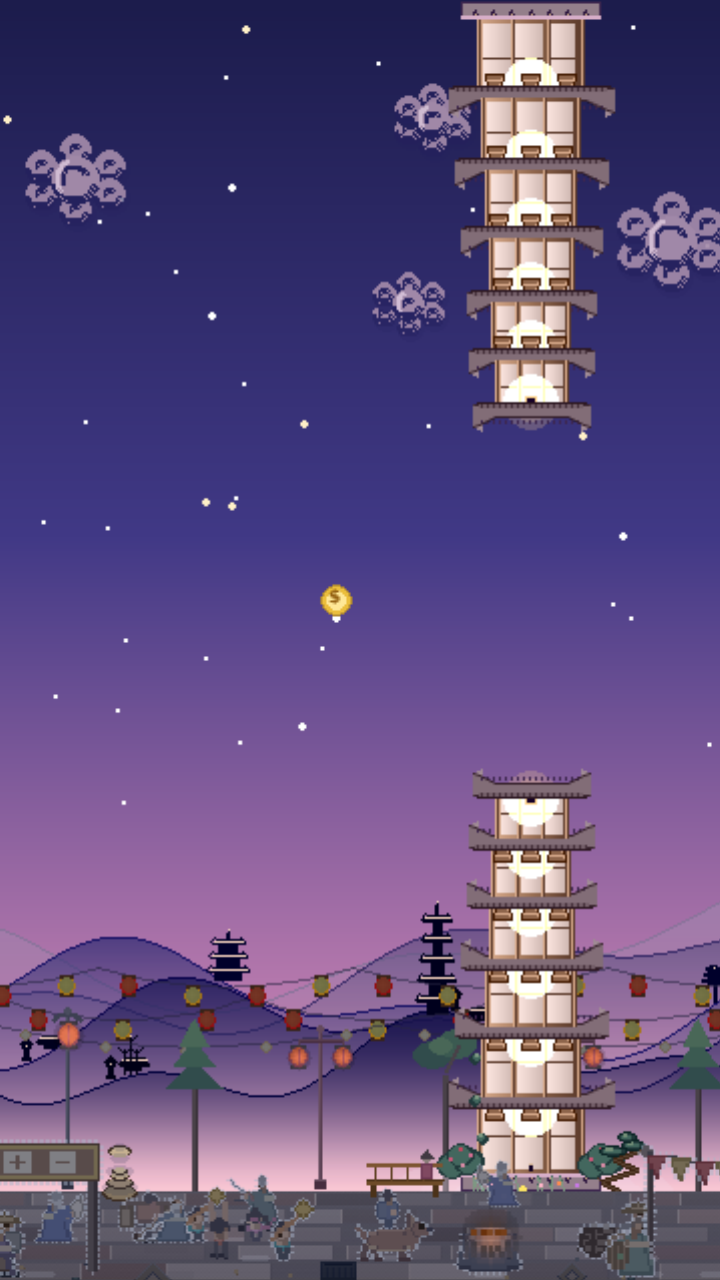
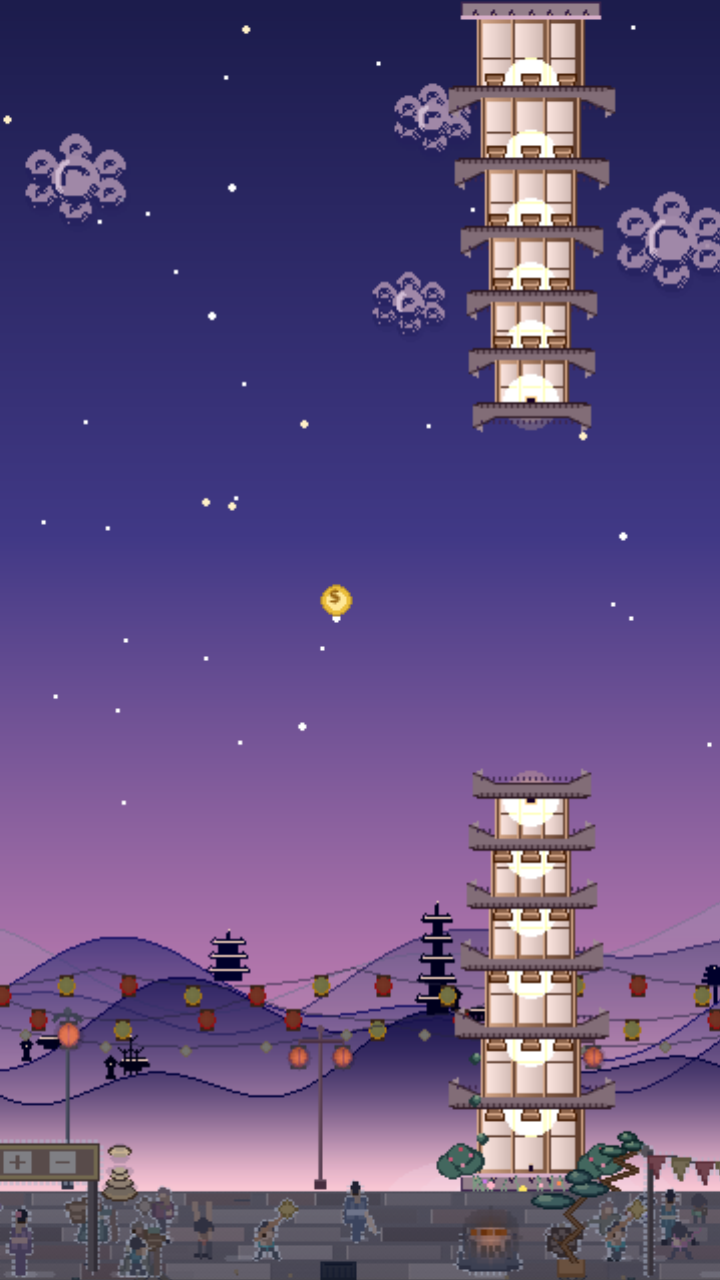
Guarantee both the dragon and the lion every festival, at different beats
Replace the 50/50 _MARQUEE coin flip with two independent scheduled acts:
the lion now has its own beat (_LION_BEAT, phase 0.762) placed in the
~8s gap between the Monkey King's troupe ending and the dragon's held
"breath" starting, so it plays as a smaller earlier sighting rather than
competing with the dragon for the same slot. The dragon keeps its full
cart + pearl-bearer procession and stays the sole act the market pauses
for. happening() latches deterministically at window[0], so both beats'
start times were computed exactly (verified with a 6-seed headless sim)
rather than guessed.

Updates FESTIVAL_PLAN.md's timeline and framing to match, and reworks
the dev screenshot/filmstrip tools to capture both acts at their real
timestamps instead of forcing the removed marquee flag.

Changed region(s): [[0.0, 0.7812, 0.4278, 1.0], [0.7333, 0.7812, 1.0, 1.0], [0.4583, 0.7812, 0.7333, 1.0]]

diff --git a/game/foreground_near_lane.py b/game/foreground_near_lane.py
@@ -45,7 +45,6 @@ here is written into game/.
 from __future__ import annotations
 
 import math
-import random
 
 import pygame
 
@@ -1427,6 +1426,13 @@ _DRAGON_BEAT = (0.788, 0.818)
 _STILT_BEAT = (0.730, 0.744)
 _TROUPE_BEAT = (0.744, 0.760)
 _TROUPE_DUR = 7.0
+# happening() latches at window[0] the first frame phase reaches it, so beat
+# starts are deterministic seconds, not random within the window — which is
+# how this slot was found: the troupe ends at 299.7s and the dragon's own
+# held "breath" wants to start ~308.5s, leaving an untouched ~8s gap. The
+# lion's self-contained act (own drummer, own crowd, no cart/pearl to stage)
+# fits it exactly, right after the troupe.
+_LION_BEAT = (0.762, 0.774)
 # The wind-down's closing image: seven people carrying the dragon home, low
 # on the shoulders, after the market has begun to strike.
 _DRAGON_HOME_BEAT = (0.822, 0.840)
@@ -1492,34 +1498,37 @@ def _festival_bill(surf, pal, phase, t, density, scroll):
         sx = int((W + 40) - k * (W + 120))
         _zbuf.enqueue(ny, TB_CAST, lambda s, sx=sx: _scaled_cast(
             s, _pf_stilt_act, sx, pal, 1.5, t=t))
+    # ★ THE LION — guaranteed every festival night, right after the troupe and
+    # well clear of the dragon's held "breath". Shorter, self-contained: it
+    # brings its own drummer and its own ring of watchers, so it parades
+    # without the cart and without the pearl (the pearl is the dragon's to
+    # chase) — a smaller sighting on the way to the crown, not a rival to it.
+    h = _wk.happening('festival_lion', _LION_BEAT, phase, t, 6.0)
+    if h:
+        k, _a = h
+        sx = int((W + 90) - k * (W + 90 + 150))
+        _zbuf.enqueue(ny, TB_CAST,
+                      lambda s, sx=sx: perf_lion_dance(s, sx, pal, t))
     # ★★ THE DRAGON — guaranteed every festival night, 10.5 s, entering from
     # the right and drifting forward with the town so the crossing lingers.
     # Latched only under light snow, but the weather hold (snow starts 0.800)
     # means the beat almost always opens clear and the flakes arrive mid-act.
     # The procession: drum cart, then the pearl-bearer, then the dragon —
     # rhythm, then mystery, then the face — one set too long to ever fit a
-    # single frame, which is what makes it read longer than it is.
+    # single frame, which is what makes it read longer than it is. The market
+    # pauses only for this act (see parade_active()) — it stays the crown.
     if getattr(pr, "_CUR_SNOW", 0.0) < 0.25 or _wk.happening_active('festival_dragon'):
         h = _wk.happening('festival_dragon', _DRAGON_BEAT, phase, t, 10.5)
         if h:
             k, _a = h
-            if _MARQUEE == 'dragon':
-                # 230 px of set: cart, pearl, then the long body.
-                sx = int((W + 130) - k * (W + 130 + 230))
-                _zbuf.enqueue(ny, TB_CAST,
-                              lambda s, sx=sx: _fest.draw_drum_cart(s, sx + 165, night, t))
-                _zbuf.enqueue(ny, TB_CAST,
-                              lambda s, sx=sx: _fest.draw_pearl_bearer(s, sx + 112, night, t))
-                _zbuf.enqueue(ny, TB_CAST,
-                              lambda s, sx=sx: perf_dragon_dance(s, sx, pal, t))
-            else:
-                # The lion is a shorter, self-contained troupe — it brings its
-                # own drummer and its own ring of watchers, so it parades
-                # without the cart and without the pearl (the pearl is the
-                # dragon's to chase).
-                sx = int((W + 90) - k * (W + 90 + 150))
-                _zbuf.enqueue(ny, TB_CAST,
-                              lambda s, sx=sx: perf_lion_dance(s, sx, pal, t))
+            # 230 px of set: cart, pearl, then the long body.
+            sx = int((W + 130) - k * (W + 130 + 230))
+            _zbuf.enqueue(ny, TB_CAST,
+                          lambda s, sx=sx: _fest.draw_drum_cart(s, sx + 165, night, t))
+            _zbuf.enqueue(ny, TB_CAST,
+                          lambda s, sx=sx: _fest.draw_pearl_bearer(s, sx + 112, night, t))
+            _zbuf.enqueue(ny, TB_CAST,
+                          lambda s, sx=sx: perf_dragon_dance(s, sx, pal, t))
 
 
 def _dragon_home_act(surf, sx, pal, t):
@@ -1542,22 +1551,9 @@ def _pf_stilt_act(surf, sx, pal, *, t=0.0):
         _pf.draw_act(surf, sx, NEAR_GROUND_Y, v, _nightf(pal), t)
 
 
-# Which beast leads the festival THIS RUN. The lion and the dragon are
-# siblings — same warm red/gold kit, same carried-costume idea — so the town
-# dances one or the other on any given night, never both. Dealt per run so a
-# player who liked one has a real reason to fly again.
-_MARQUEE = 'dragon'
-
-
-def marquee_is_dragon():
-    return _MARQUEE == 'dragon'
-
-
 def reset_run():
-    global _MARQUEE
     from game import festival as _fest
     _fest.reset_run()
-    _MARQUEE = 'dragon' if random.random() < 0.5 else 'lion'
 
 
 
@@ -1715,13 +1711,10 @@ def draw_near_lane(surf, scroll, pal, phase, t, crowd=None):
     if _festival_now(phase):
         _festival_bill(surf, pal, phase, t, density, scroll)
     # The wind-down's closing image, once per run: the carriers walking the
-    # dragon home through the first of the small hours.
-    # Only the dragon gets carried home — on a lion night there is no long
-    # spine to sling over seven shoulders, and the small hours simply stay
-    # empty instead of contradicting the night the player actually saw.
-    hd = (_wk.happening('dragon_home', _DRAGON_HOME_BEAT, phase, t, 6.0,
-                        anchor=scroll + W * 0.72)
-          if _MARQUEE == 'dragon' else None)
+    # dragon home through the first of the small hours (the lion has no long
+    # spine to sling over shoulders, so it isn't part of this beat).
+    hd = _wk.happening('dragon_home', _DRAGON_HOME_BEAT, phase, t, 6.0,
+                       anchor=scroll + W * 0.72)
     if hd and not pr.calm_now():
         kk, wx = hd
         sxx = int(wx - scroll) - int(kk * 70)

diff --git a/tools/_dragon_lion_screenshots.py b/tools/_dragon_lion_screenshots.py
@@ -1,9 +1,9 @@
 """One real gameplay frame each of the dragon and lion marquee acts.
 
-Dev-only — same headless real-draw-path technique as weekend_filmstrips.py,
-but forces `foreground_near_lane._MARQUEE` instead of leaving it to the
-per-run coin flip, so both siblings can be captured on demand rather than
-waited for.
+Dev-only — same headless real-draw-path technique as weekend_filmstrips.py.
+Both acts are now unconditional per-run beats (`_DRAGON_BEAT`/`_LION_BEAT` in
+foreground_near_lane.py), so each is simply captured at its own real
+timestamp through the live `_festival_bill` dispatch — no flag to force.
 
     SDL_VIDEODRIVER=dummy PYTHONPATH=. python tools/_dragon_lion_screenshots.py
 """
@@ -20,45 +20,44 @@ pygame.display.set_mode((1, 1))
 from game.config import W, H, GROUND_Y                      # noqa: E402
 from game import biome as _biome                            # noqa: E402
 from game import foreground                                 # noqa: E402
-from game import foreground_near_lane as _near               # noqa: E402
 from tools._family_showcase import _draw_pillars, _gold_coin  # noqa: E402
 from tools.weekend_filmstrips import (                       # noqa: E402
     CYCLE, _wetness, _snow_cover, _build_background_pre,
 )
 from game.sidewalk_crowd import SidewalkCrowd                # noqa: E402
 
-# Mid-beat of the 10.5s dragon/lion act (_DRAGON_BEAT = (0.788, 0.818),
-# beat starts at phase*CYCLE = 310.0s) — the same t the filmstrip sheet
-# already uses for "THE DRAGON — parade, first flakes", so it's a
-# pre-verified moment where the full procession is on screen.
-T = 316.0
+# _LION_BEAT = (0.762, 0.774) starts at 299.8s, dur 6.0s -> mid-beat ~302.8s.
+# _DRAGON_BEAT = (0.788, 0.818) starts at 310.0s, dur 10.5s; 316.0s is the
+# same mid-beat moment the filmstrip sheet already uses for "THE DRAGON —
+# parade, first flakes", a pre-verified frame with the full procession on
+# screen.
+TIMES = {"lion": 302.8, "dragon": 316.0}
 
 
-def _frame(marquee):
-    phase = (T / CYCLE) % 1.0
-    scroll = T * 160.0
+def _frame(t):
+    phase = (t / CYCLE) % 1.0
+    scroll = t * 160.0
     foreground.reset_street()
-    _near._MARQUEE = marquee  # force the sibling instead of the coin flip
     crowd = SidewalkCrowd()
     foreground.set_crowd(crowd)
-    sig = dict(clown_active=False, newbie_calm=False, score=int(T),
+    sig = dict(clown_active=False, newbie_calm=False, score=int(t),
                near_misses=0, finale_active=False,
-               wetness=_wetness(T), snow_cover=_snow_cover(T))
+               wetness=_wetness(t), snow_cover=_snow_cover(t))
     foreground.set_world_signals(**sig)
     sc = scroll - 25.0 * 160.0
     for i in range(25 * 30):
         sc += 160.0 / 30.0
-        crowd.update(sc, 160.0, 1.0 / 30.0, phase, T - 25.0 + i / 30.0)
+        crowd.update(sc, 160.0, 1.0 / 30.0, phase, t - 25.0 + i / 30.0)
     surf = pygame.Surface((W, H))
     pal = _biome.palette_for_phase(phase)
     for _ in range(2):
-        foreground.draw_promenade(surf, scroll, pal, phase, T)
-        foreground.draw_near_lane(surf, scroll, pal, phase, T)
+        foreground.draw_promenade(surf, scroll, pal, phase, t)
+        foreground.draw_near_lane(surf, scroll, pal, phase, t)
     surf.fill((0, 0, 0))
-    _build_background_pre(surf, scroll, phase, T, sig)
+    _build_background_pre(surf, scroll, phase, t, sig)
     _draw_pillars(surf, pal, phase, [(236, 300, 168)])
     _gold_coin(surf, 168, 300)
-    foreground.draw_near_lane(surf, scroll, pal, phase, T)
+    foreground.draw_near_lane(surf, scroll, pal, phase, t)
     return surf
 
 
@@ -67,7 +66,7 @@ def main():
     os.makedirs(out_dir, exist_ok=True)
     for marquee, name in (("dragon", "dragon_gameplay.png"),
                            ("lion", "lion_gameplay.png")):
-        frame = _frame(marquee)
+        frame = _frame(TIMES[marquee])
         # 2x upscale — the native 360x640 frame is too small to read the
         # procession detail in a screenshot.
         big = pygame.transform.smoothscale(frame, (W * 2, H * 2))

diff --git a/tools/weekend_filmstrips.py b/tools/weekend_filmstrips.py
@@ -38,7 +38,8 @@ CHECKPOINTS = [
     (247.0, "CH7  storm peak — tarps + suoyi", {}),
     (282.0, "CH8a FIRE-TREE NIGHT — crest + iron flower", {}),
     (296.0, "CH8b Monkey King troupe (second crest)", {}),
-    (316.0, "CH8c THE DRAGON — parade, first flakes", {}),
+    (303.0, "CH8c THE LION — self-contained troupe", {}),
+    (316.0, "CH8d THE DRAGON — parade, first flakes", {}),
     (342.0, "CH9  small hours — winter dress, snow", {}),
     (372.0, "CH10 first light — tea + the sweeper", {}),
 ]
@@ -129,7 +130,7 @@ def _build_background_pre(surf, scroll, phase, t, sig):
 def main():
     scale = 0.8
     fw, fh = int(W * scale), int(H * scale)
-    cols, rows = 3, 4
+    cols, rows = 3, 5
     gap, head, foot = 8, 46, 26
     sheet = pygame.Surface((cols * fw + (cols + 1) * gap,
                             head + rows * (fh + foot + gap) + gap))

diff --git a/docs/sidewalk_overhaul/FESTIVAL_PLAN.md b/docs/sidewalk_overhaul/FESTIVAL_PLAN.md
@@ -158,11 +158,16 @@ The last festival-specific object the player sees is a **1-px scorch speckle fie
 | 0.727–0.743 | 286.1–292.4 | 6.3 | ★ Iron flower |
 | 0.743–0.756 | 292.4–297.5 | 5.1 | Strip B + crossing + stilts |
 | 0.756–0.771 | 297.5–303.4 | 5.9 | ★ Monkey King's troupe |
+| 0.762–0.774¹ | 299.8–305.8 | 6.0 | ★ The lion |
 | 0.771–0.784 | 303.4–308.5 | 5.1 | ★ Spine B — food theatre |
 | 0.784–0.789 | 308.5–310.5 | 2.0 | The breath |
 | 0.789–0.816 | 310.5–321.0 | 10.5 | ★★ The dragon |
 | 0.816–0.820 | 321.0–322.7 | 1.7 | Afterglow → hand-off |
 | | | **55.1** | |
+
+¹ The lion is layered inside this stretch, not an added block — it plays over
+the troupe's tail-end and Spine B's opening without changing either's own
+stall placement math; see §4a.
 
 ---
 
@@ -212,7 +217,7 @@ The day plan's signature is *"3 lit stalls, 4 steam plumes."* A strip meets it a
 
 ## 4. SHOWS — the bill
 
-Three squares and one travelling act, fixed, in fixed order. The random busker roll (`p_show`) is **suppressed inside the window** so the bill isn't diluted by a calligrapher landing between the fire and the dragon; the 40 s show cooldown is lifted here.
+Four squares and one travelling act, fixed, in fixed order. The random busker roll (`p_show`) is **suppressed inside the window** so the bill isn't diluted by a calligrapher landing between the fire and the dragon; the 40 s show cooldown is lifted here.
 
 ---
 
@@ -242,9 +247,25 @@ The existing `perf_dragon_dance` is intact and is the centrepiece. What's added 
 - **The glance:** at t ≈ 317 s the dragon's head turns up-left for 1.4 s. Once. Never repeated.
 - **Snow:** first flakes at 314.8 s fall through it, halos drawn over the flake layer.
 
-**Cadence:** exactly **one per cycle**, deterministic at φ 0.789. Outside the festival window the existing rare-roll (≤1 per run, ~2% per eligible block, phase ≥ 0.60) is unchanged. The lion dance stays available to that rare roll and **does not** appear tonight — two marquee acts in one night halves both.
+**Cadence:** exactly **one per cycle**, deterministic at φ 0.789. Outside the festival window the existing rare-roll (≤1 per run, ~2% per eligible block, phase ≥ 0.60) is unchanged and can still land a lion dance on an ordinary night.
+
+**Update — both acts now guaranteed, at different points (post-launch revision).** The original plan suppressed the lion tonight on the theory that two marquee acts in one night halves both. Player feedback overruled that: the dragon and the lion are the two things being asked for, so both are guaranteed every festival, staged as separate sightings rather than rivals for the same slot — the lion is not a second crown, it's an earlier, smaller sighting that makes the dragon's later arrival feel like an escalation rather than a repeat. See the new §4a below for its placement.
 
 **Gate change required:** the existing `storm_intensity == 0` condition must become `storm_intensity < 0.25`, or the first flakes cancel the crown.
+
+---
+
+### ★ THE LION — the earlier sighting · once, guaranteed, φ 0.762
+
+The existing `perf_lion_dance` is intact and unchanged: two dancers under one flowing costume (a carried bulbous head trailing a segmented cloth body), its own drummer beside it, its own flanking crowd — a shorter, self-contained troupe with no staged procession to build (no pearl, no cart; the pearl is the dragon's to chase).
+
+**Where it sits, and why there.** `foreground_weekend.happening()` latches a beat's start the first frame `phase` reaches `window[0]`, so every beat's start second is deterministic, not randomized inside its window — which makes the festival's real, un-narrated gaps computable exactly. The Monkey King's troupe (§4, ★ Show Square 2) ends at t = 299.7 s; the dragon's own held "breath" wants silence from ≈ 308.5 s. That leaves an ~8.8 s stretch that nothing else claims. The lion's 6 s act starts right after the troupe, at φ 0.762 (t ≈ 299.8 s), and finishes by t ≈ 305.8 s — a clean ≈2.7 s pause still lands before the breath, so nothing collides.
+
+**Cadence:** exactly one per cycle, deterministic at φ 0.762 — same guarantee as the dragon, same "once, not a roll" mechanism.
+
+**Staging:** simple screen-crossing, right to left, over its 6 s (`sx = (W+90) − k·(W+90+150)`) — the same interpolation the dragon uses for its own procession, just without the extra cart/pearl set pieces since the act carries none.
+
+**Why it doesn't pause the market.** The market-pause beat (`parade_active()`) stays keyed to the dragon alone. Pausing for the lion too would spend the plan's single "the market stops for this" gesture twice in one night and dilute the dragon's claim to being the crown — the lion parades past a market that's still working, which is exactly what keeps it reading as the smaller of the two sightings.
 
 ---
 
@@ -350,7 +371,7 @@ Tempting, thematically perfect, and **cut**. Sky lanterns would rise into the pi
 |---|---|
 | B1 | **Market strip mechanic** — 5–7 consecutive stall slots at 96–130 px pitch (replaces one-stall-at-a-time), with kind-deck no-repeat-within-3, independent awning/openness/pose dealing, and 200–400 px cross-alley gaps between strips |
 | B2 | **Mid-deck spine row** — a third z-band at `feet_y ≈ 616`, scale 1.2, offset half a pitch from the far row; peak blocks only. *(Stretch: if the z-band is too costly, fall back to a single row at 96 px pitch = 3.75 stalls/frame, which still beats the day plan's signature.)* |
-| B3 | **Guaranteed dragon scheduling** — deterministic single spawn at φ 0.789; the rare 2% roll persists unchanged for all other phases; lion suppressed inside the window |
+| B3 | **Guaranteed dragon + lion scheduling** — deterministic single spawn each: dragon at φ 0.789, lion at φ 0.762 (never overlapping); the rare 2% roll persists unchanged for all other phases |
 | B4 | **Parade drift** — set piece translates at +0.55 × scroll for its lifetime (relative 72 px/s, ~10.4 s traverse) |
 | B5 | **Market pause** — stalls within the dragon's 2 blocks go non-working (vendor steps out, steam 3→1 wisps, calls off) for traverse + 1.5 s, then restart staggered 0.4 s |
 | B6 | **Crowd modes ×7** — walk-and-eat, standing eaters, 4-deep queue (theatre stalls, 2/phrase), table sit, browse pause, spark-watch, parade-follow |
@@ -380,7 +401,6 @@ Tempting, thematically perfect, and **cut**. Sky lanterns would rise into the pi
 
 - No live-animal monkey act (§4).
 - No sky-lantern release (§4).
-- No lion dance tonight.
 - No text, no HUD marker, no cheer sting, no confetti — the day plan's prohibitions hold everywhere.
 
 ---
